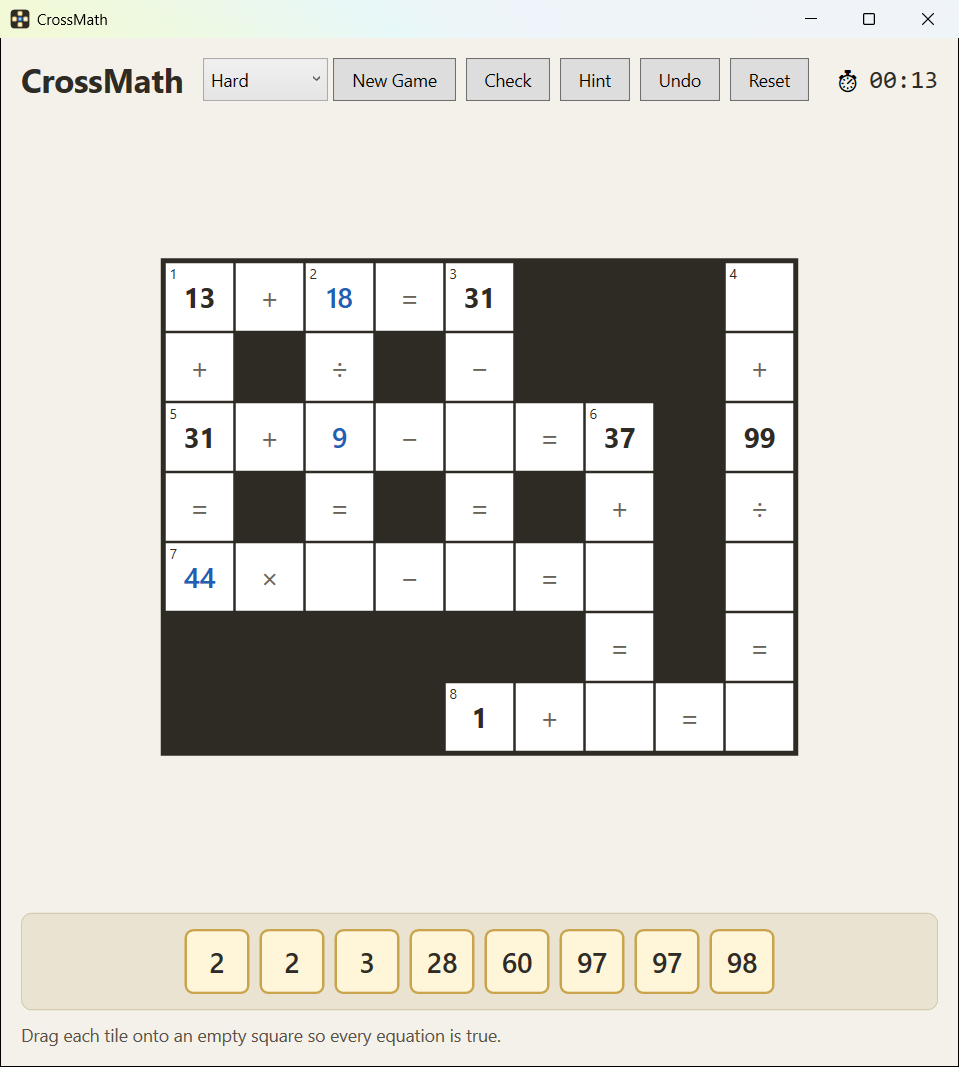
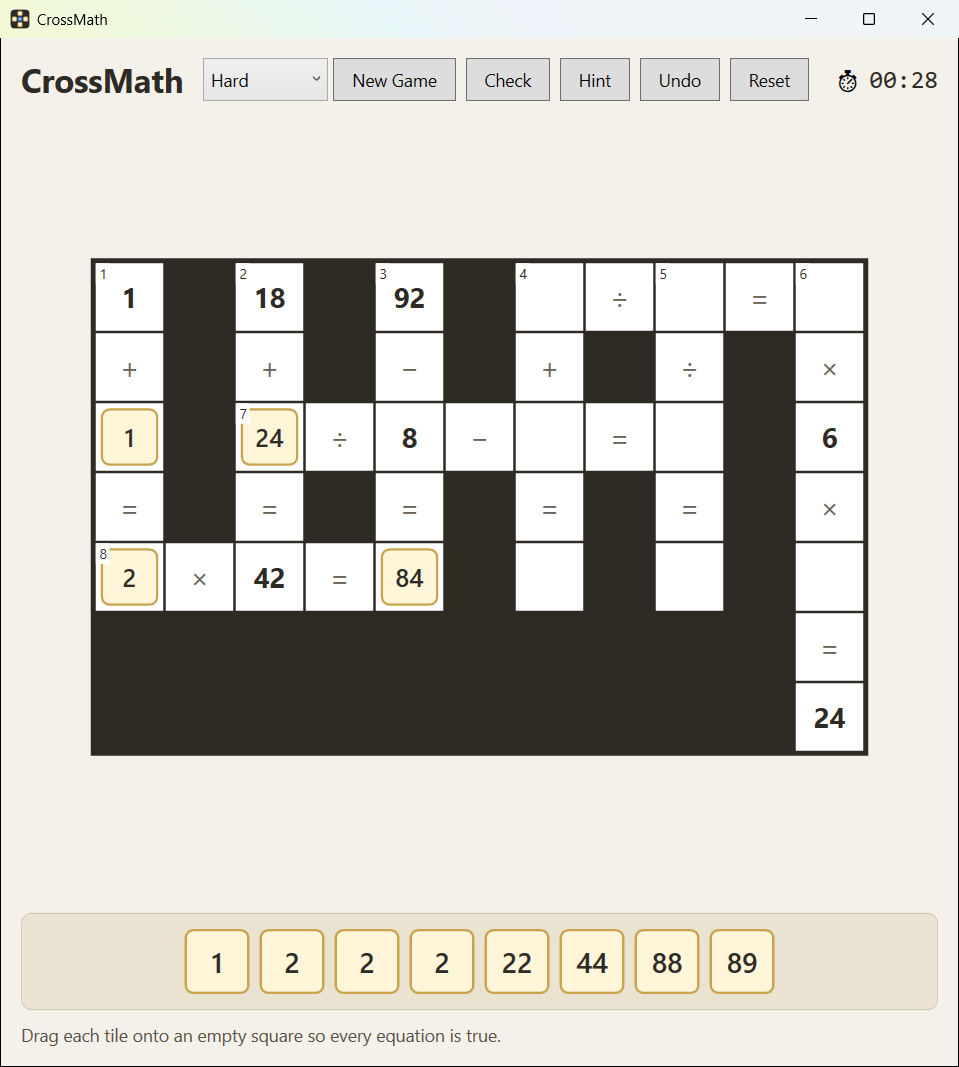
Show placed numbers as tiles; clear stale Check message on moves - A tile placed on the board keeps its tray look (cream fill, gold   border, rounded corners) inside the white square, so movable numbers   stand apart from the fixed, printed ones. Check results and hints tint   the tile; selection ou

diff --git a/src/CrossMath.App/Views/MainWindow.xaml b/src/CrossMath.App/Views/MainWindow.xaml
@@ -20,8 +20,9 @@
     <Window.Resources>
         <BooleanToVisibilityConverter x:Key="BoolToVisibility" />
         <conv:TimeSpanToStringConverter x:Key="TimeText" />
-        <conv:CellStateToBrushConverter x:Key="StateBrush"
-                                        Normal="White" Correct="#CDEFD0" Wrong="#F7C9C9" Hinted="#D3E4FA" />
+        <!-- Fill for a tile placed on the board: tray colors normally, tinted by Check results or a hint. -->
+        <conv:CellStateToBrushConverter x:Key="PlacedTileBrush"
+                                        Normal="#FFF6DA" Correct="#CDEFD0" Wrong="#F7C9C9" Hinted="#D3E4FA" />
 
         <SolidColorBrush x:Key="Ink" Color="#2E2A24" />
         <SolidColorBrush x:Key="PlayerInk" Color="#1F5FB4" />
@@ -44,14 +45,21 @@
             <Setter Property="CornerRadius" Value="6" />
         </Style>
 
+        <!-- White backing so the number notches into the corner of a placed tile instead of overlapping it. -->
         <Style x:Key="ClueNumberText" TargetType="TextBlock">
             <Setter Property="FontSize" Value="11" />
-            <Setter Property="Margin" Value="3,1,0,0" />
+            <Setter Property="Padding" Value="3,1,2,1" />
+            <Setter Property="Background" Value="White" />
             <Setter Property="HorizontalAlignment" Value="Left" />
             <Setter Property="VerticalAlignment" Value="Top" />
             <Setter Property="Foreground" Value="{StaticResource Ink}" />
             <Setter Property="IsHitTestVisible" Value="False" />
             <Setter Property="Text" Value="{Binding ClueNumber}" />
+            <Style.Triggers>
+                <DataTrigger Binding="{Binding ClueNumber}" Value="{x:Null}">
+                    <Setter Property="Visibility" Value="Collapsed" />
+                </DataTrigger>
+            </Style.Triggers>
         </Style>
 
         <Style x:Key="SquareText" TargetType="TextBlock">
@@ -88,8 +96,7 @@
         </DataTemplate>
 
         <DataTemplate x:Key="BlankCell" DataType="{x:Type vm:CellViewModel}">
-            <Border x:Name="Box" Style="{StaticResource Square}" BorderBrush="{StaticResource SelectEdge}"
-                    Background="{Binding State, Converter={StaticResource StateBrush}}"
+            <Border x:Name="Box" Style="{StaticResource Square}"
                     Cursor="Hand"
                     b:DragSource.CanDrag="{Binding CanDrag}"
                     b:DragSource.ClickCommand="{Binding DataContext.CellClickedCommand, RelativeSource={RelativeSource AncestorType=Window}}"
@@ -97,18 +104,27 @@
                     b:DropTarget.Command="{Binding DataContext.MoveTileCommand, RelativeSource={RelativeSource AncestorType=Window}}"
                     ToolTip="Drop a tile here. Right-click to send it back.">
                 <Grid>
-                    <TextBlock x:Name="Value" Style="{StaticResource SquareText}" Text="{Binding DisplayText}"
-                               FontWeight="SemiBold" Foreground="{StaticResource PlayerInk}" />
+                    <!-- A placed tile looks the same as in the tray, so movable numbers stand apart from the
+                         fixed, printed ones. -->
+                    <Border x:Name="PlacedTile" Margin="4" CornerRadius="6" BorderThickness="2"
+                            BorderBrush="{StaticResource TileEdge}"
+                            Background="{Binding State, Converter={StaticResource PlacedTileBrush}}"
+                            Visibility="{Binding HasTile, Converter={StaticResource BoolToVisibility}}">
+                        <TextBlock x:Name="Value" Style="{StaticResource SquareText}" Text="{Binding DisplayText}"
+                                   FontSize="20" FontWeight="SemiBold" />
+                    </Border>
                     <TextBlock Style="{StaticResource ClueNumberText}" />
                 </Grid>
             </Border>
             <DataTemplate.Triggers>
                 <DataTrigger Binding="{Binding IsSelected}" Value="True">
-                    <Setter TargetName="Box" Property="BorderThickness" Value="3" />
+                    <Setter TargetName="PlacedTile" Property="BorderBrush" Value="{StaticResource SelectEdge}" />
+                    <Setter TargetName="PlacedTile" Property="BorderThickness" Value="3" />
                 </DataTrigger>
                 <DataTrigger Binding="{Binding IsLocked}" Value="True">
                     <Setter TargetName="Box" Property="Cursor" Value="Arrow" />
-                    <Setter TargetName="Value" Property="FontStyle" Value="Italic" />
+                    <Setter TargetName="PlacedTile" Property="BorderBrush" Value="{StaticResource PlayerInk}" />
+                    <Setter TargetName="Value" Property="Foreground" Value="{StaticResource PlayerInk}" />
                 </DataTrigger>
             </DataTemplate.Triggers>
         </DataTemplate>

diff --git a/src/CrossMath.App/ViewModels/MainViewModel.cs b/src/CrossMath.App/ViewModels/MainViewModel.cs
@@ -344,10 +344,7 @@ public partial class MainViewModel : ObservableObject
     {
         _history.Push(BlankCells.Select(c => new CellSnapshot(c, c.Tile, c.IsLocked)).ToArray());
         UndoCommand.NotifyCanExecuteChanged();
-        if (_timer.IsRunning) return;
-
-        _timer.Start();
-        StatusMessage = Instructions;
+        if (!_timer.IsRunning) _timer.Start();
     }
 
     private const string Instructions = "Drag each tile onto an empty square so every equation is true.";
@@ -369,9 +366,11 @@ public partial class MainViewModel : ObservableObject
 
     private void AfterBoardChanged()
     {
+        // A move makes earlier Check results stale: clear their colors and message.
         Select(null);
         foreach (var cell in BlankCells.Where(c => !c.IsLocked))
             cell.State = CellState.Normal;
+        StatusMessage = Instructions;
 
         bool solved = BlankCells.All(c => c.Tile is not null)
             && _puzzle!.Equations.All(eq => Evaluator.IsSatisfied(eq, _puzzle.Operators, p => CellAt(p).Value));

diff --git a/tests/CrossMath.App.Tests/MainViewModelTests.cs b/tests/CrossMath.App.Tests/MainViewModelTests.cs
@@ -199,14 +199,16 @@ public class MainViewModelTests
     }
 
     [Fact]
-    public async Task Check_StatesClearOnNextMove()
+    public async Task Check_ColorsAndMessageClearOnNextMove()
     {
         var (vm, _) = await StartGameAsync();
         Move(vm, Tile(vm, 4), Cell(vm, B));
         vm.CheckCommand.Execute(null);
+        Assert.Contains("don't add up", vm.StatusMessage);
 
         Move(vm, Cell(vm, B), vm.Pool);
         Assert.Equal(CellState.Normal, Cell(vm, B).State);
+        Assert.DoesNotContain("don't add up", vm.StatusMessage);
     }
 
     [Fact]
